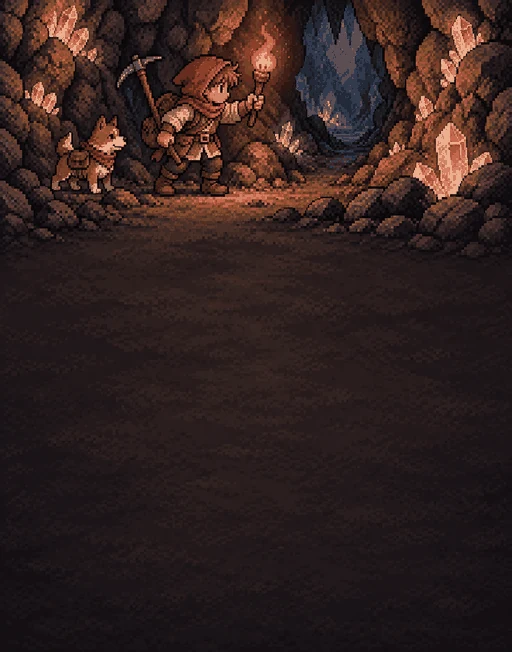
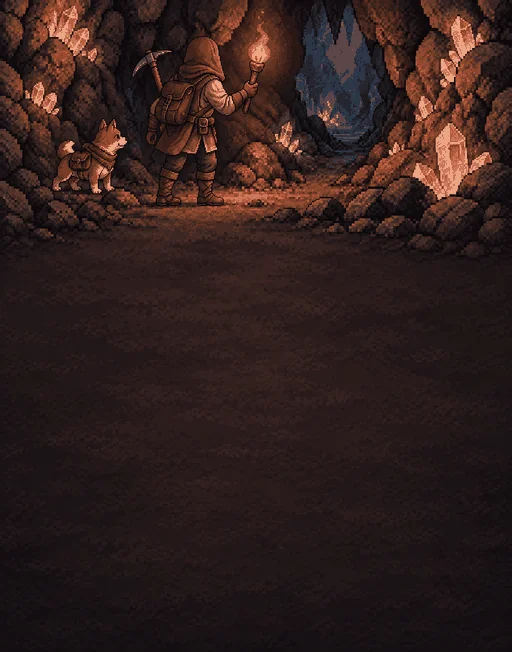
Conceal player face and use natural proportions in gemstone art

diff --git a/src/art_thumbs.js b/src/art_thumbs.js
@@ -136,7 +136,7 @@ const ART_THUMBS = {
[8 lines of base64/hex data omitted]
@@ -294,7 +294,7 @@ const ART_TONES = {
   underground_bone_gallery: '#42332b',
   underground_depth2_rock_scatter: '#473329',
   underground_gemstone_cavern: '#45332d',
-  underground_gemstone_path: '#482d27',
+  underground_gemstone_path: '#442923',
   underground_goblin_warrens: '#443228',
   underground_mine_tunnels: '#433127',
   underground_miners_way: '#3d2d27',
@@ -987,9 +987,9 @@ const ART_CUTS = {
[1 lines of base64/hex data omitted]
   ],
   underground_gemstone_path: [
[6 lines of base64/hex data omitted]
   ],
   underground_goblin_warrens: [
[1 lines of base64/hex data omitted]

diff --git a/tools/gen_story_art.js b/tools/gen_story_art.js
@@ -36,7 +36,9 @@ const STYLE =
   'Warm golden-hour palette: amber and dusty-orange sky with visible dithering, olive-green ' +
   'foliage, brown earth, cream highlights. Retro SNES-era pixel clusters, crisp clusters, no ' +
   'anti-aliased smooth gradients. Wide landscape composition, gentle melancholy turning to hope. ' +
-  'The player survivor always wears a raised brown hood concealing hair and face; NPCs keep their own clothing. ' +
+  'The player survivor always wears a raised brown hood completely concealing hair and face in opaque shadow: ' +
+  'no visible eyes, nose, mouth, chin, facial skin or glowing eyes, even in torchlight or profile. ' +
+  'Use natural figure proportions in story illustrations, never chibi or oversized heads; NPCs keep their own clothing. ' +
   'All currency coins are jade green with a star mark, never yellow gold. ' +
   'No text, no letters, no UI, no watermark.';
 
@@ -82,7 +84,7 @@ const LORE = {
   sigil:   'Subtle background detail: a small scorched horned sigil is burnt into a stone, half covered by grass.',
   shadow:  'Very subtle detail: the survivor\'s long shadow on the ground shows two faint small horn shapes that the survivor does not have - easy to miss.',
   embers:  'Very subtle detail: nearby sparks and embers drift toward the survivor, as if drawn to them.',
-  glint:   'Very subtle detail: a faint red ember glint in the survivor\'s eyes, barely visible.',
+  glint:   'Very subtle detail: a faint red ember caught on the edge of the survivor\'s cloak, away from the fully concealed face.',
   wary:    'Very subtle detail: one onlooker glances at the survivor with quiet unease.',
 };
 // NO LORE ON HOLY OR GRAVE GROUND (Sep 2026). A demon hint on a church, a
@@ -319,7 +321,7 @@ const PIECES = {
   underground_seep_passage: scene("A narrow shallow stream through a rocky cave corridor with dry banks on both sides and a few pale mushrooms."),
   underground_miners_way: scene("A small wooden ore cart parked beside a clear mining path, metal ore seams and broken worked stone along its verges."),
   underground_warren_run: scene("A narrow low cave passage lined with crude stone walls, tiny open side doorways and supply alcoves."),
-  underground_gemstone_path: scene("A narrow cave passage lined with small rose quartz crystal seams among broken rock, subtle pink glimmer."),
+  underground_gemstone_path: scene("A narrow cave passage lined with small rose quartz crystal seams among broken rock, subtle pink glimmer. A naturally proportioned brown-hooded traveller with a backpack and torch, seen from behind looking into the tunnel, with a small companion dog. The hood completely hides all hair and face. Grounded fantasy proportions, no chibi or oversized head."),
   underground_sm_road_passage: scene("A broad rough underground passage with a few stalagmites, a small inert stone vent and separate dark floor openings."),
   underground_depth2_rock_scatter: scene("Sparse small rose quartz and violet amethyst clusters scattered among ordinary cave rocks, no other gems."),
   underground_bone_gallery: scene("A cave passage with clustered pale dry animal bones and skulls and an ominous bulky creature shadow deep beyond. No gore."),

diff --git a/sw.js b/sw.js
@@ -1,7 +1,7 @@
 // Content-addressed resources survive deployments. HTML stays network-first;
 // tiles retain their independent offline cache. Keep two shell generations so
 // old tabs can still request their exact script URLs after a worker update.
-const SHELL_VERSION = 'shell-c10cddcd';
+const SHELL_VERSION = 'shell-36a137f2';
 
 const RESOURCE_CACHE = 'terracart-resources-v1';
 const RESOURCE_MANIFEST = './__terracart_resource_manifest__';
@@ -826,7 +826,7 @@ const ASSET_HASHES = {
   "assets/art/underground_bone_gallery.webp": "c23b9e73",
   "assets/art/underground_depth2_rock_scatter.webp": "e8551cb3",
   "assets/art/underground_gemstone_cavern.webp": "81b47df2",
-  "assets/art/underground_gemstone_path.webp": "942f24eb",
+  "assets/art/underground_gemstone_path.webp": "9ca2d25f",
   "assets/art/underground_goblin_warrens.webp": "449e3ba3",
   "assets/art/underground_mine_tunnels.webp": "ab395270",
   "assets/art/underground_miners_way.webp": "590e522f",

diff --git a/index.html b/index.html
@@ -2986,7 +2986,7 @@
   <script src="src/sandbox.js?v=4e6e70e1"></script>
   <script src="src/testtools.js?v=5767ffd9"></script>
   <script src="src/geo.js?v=0a205c42"></script>
-  <script src="src/art_thumbs.js?v=189878f8"></script>
+  <script src="src/art_thumbs.js?v=c9282194"></script>
   <script src="src/modal_shell.js?v=ed8c6573"></script>
   <script src="src/scene_geo.js?v=a0e138d3"></script>
   <script src="src/npc.js?v=c73a58a3"></script>

diff --git a/docs/art/art-direction-brief.md b/docs/art/art-direction-brief.md
@@ -24,6 +24,11 @@ Unrestored places use weathered materials, subdued colour, and signs of neglect.
 - The 24px grid is the art target. Source sprites may be 16px or 24px; the current runtime display cell is 32px (`src/sprite_layout.js` and `src/app.js`). These are separate sizes; assess assets together at their final display scale.
 - Characters and enemies have chunky proportions and move continuously, including between cells, to accommodate GPS movement. The art grid does not constrain movement.
 
+## Player concealment and story illustrations
+
+- Never show the player's face or hair. Keep the brown hood raised and the face fully hidden by opaque shadow or a rear view, including in profile and torchlight. No visible eyes, facial skin or glowing eyes.
+- Story illustrations use grounded, natural figure proportions without oversized chibi heads. Preserve the subdued pixel treatment and the empty lower dialog area.
+
 ## Spritesheet generation
 - Generate spritesheets as an 8 × 8 grid of sprites: eight columns and eight rows, for 64 frames. Design each frame in a 24 × 24 px pixel-art style, with deliberate pixel clusters, crisp edges and restrained detail.
 - A sheet of single-cell sprites is 192 × 192 px at the target resolution. Higher-resolution generations are enlarged working images; they must not introduce finer detail than the 24 × 24 px style can support. Review the extracted frames at their final game scale.
